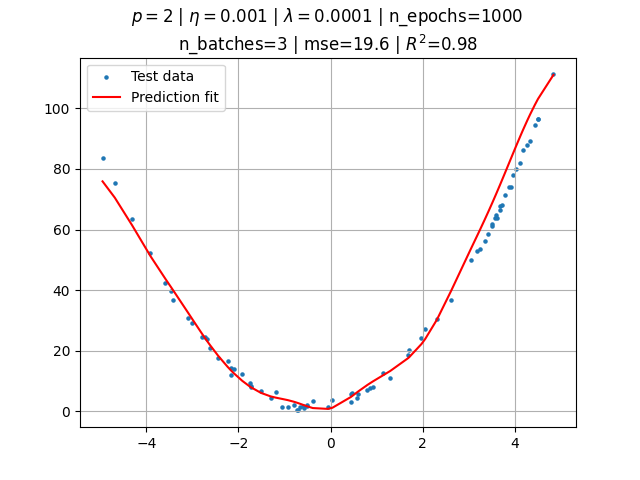
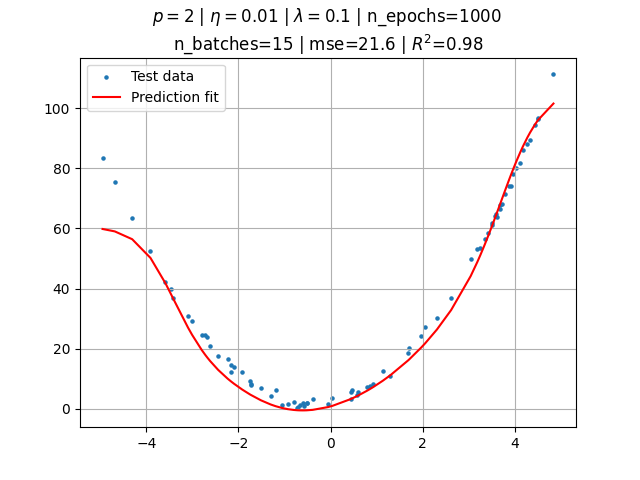
...

Changed region(s): [[0.0625, 0.1875, 0.9062, 0.875], [0.1875, 0.0, 0.8125, 0.125], [0.8438, 0.1562, 0.875, 0.1875]]

diff --git a/project2/source-code/part_b&c_regression.py b/project2/source-code/part_b&c_regression.py
@@ -14,9 +14,9 @@ from sklearn.metrics import r2_score, mean_squared_error
 n = 100  # no. data points
 noise_std = 1  # standard deviation of noise
 xmax = 5  # max x value
-lmbda = 0.0001  # shrinkage  hyperparameter lambda
-eta = 0.001  # learning rate
-n_batches = 3  # no. minibatches for sgd
+lmbda = 0.1  # shrinkage  hyperparameter lambda
+eta = 0.01  # learning rate
+n_batches = 15  # no. minibatches for sgd
 degree = 2  # max polynomial degree for design matrix
 n_epochs = 1000  # no. epochs/iterations for nn training
 rng_seed = 2023  # seed for generating psuedo-random values, helps withbugging purposes
@@ -209,9 +209,9 @@ def plot_mse_r2_grid(filename_mse: str = "", filename_r2: str = ""):
 
 
 # print_pred()
-# plot_pred("../results/figures/part_b_pred.png")
-# plot_pred_scikit("../results/figures/part_b_pred_scikit.png")
-plot_mse_r2_grid(
-        f"../results/figures/part_b_mse_grid_batches{n_batches}.png",
-        f"../results/figures/part_b_r2_grid_batches{n_batches}.png",
-)
+plot_pred("../results/figures/part_b_pred.png")
+plot_pred_scikit("../results/figures/part_b_pred_scikit.png")
+# plot_mse_r2_grid(
+#         f"../results/figures/part_b_mse_grid_batches{n_batches}.png",
+#         f"../results/figures/part_b_r2_grid_batches{n_batches}.png",
+# )
